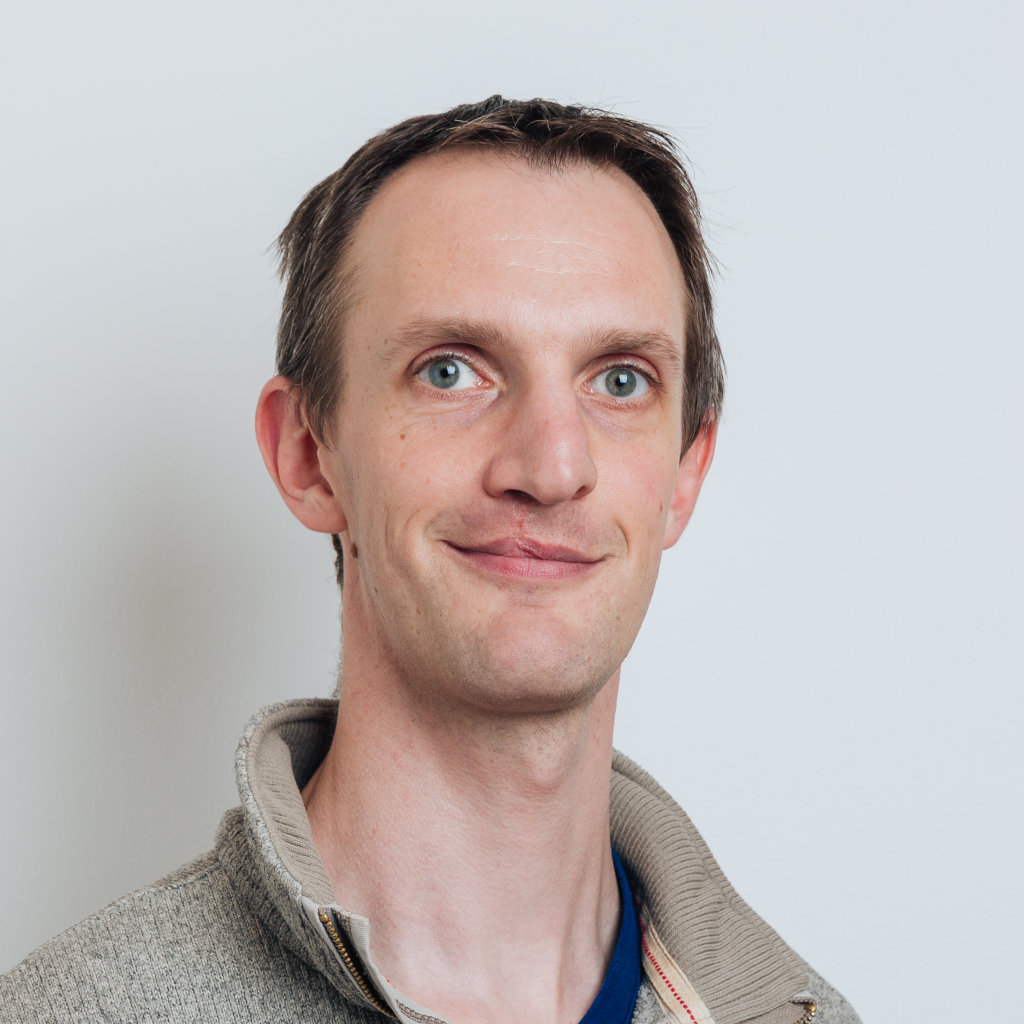
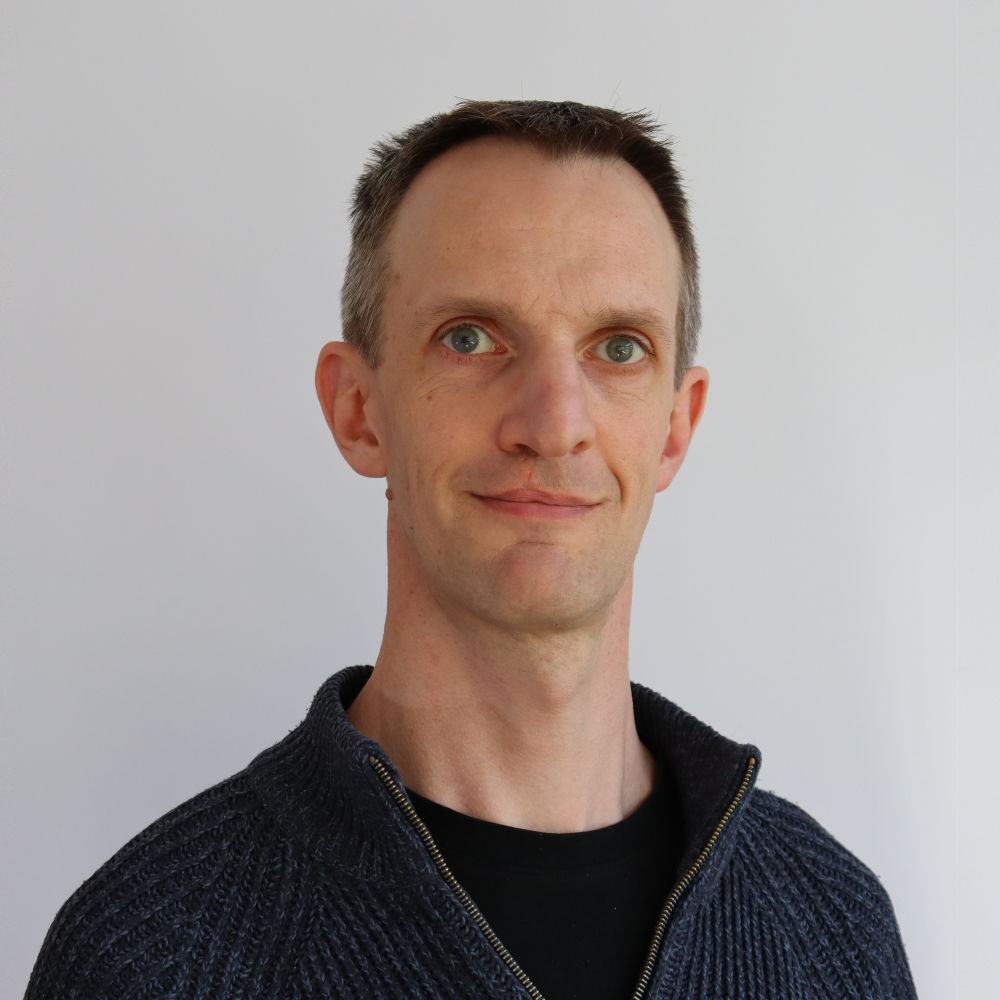
deploy: 5ba586b7f58774de42f5be3b5d95a313b15dc52f

diff --git a/about-me/index.html b/about-me/index.html
@@ -2,7 +2,7 @@
 <meta name=keywords content><meta name=description content="I’m a Professor of Computational and Experimental Mathematics in the School of Engineering Mathematics and Technology at the University of Bristol, UK. I’m active in research in nonlinear dynamics and control mixed with scientific machine learning, and a bit of robotics. I&rsquo;m always interested in new collaborations, so take a look at my research pages and get in touch.
 I’m also husband to Johanna and father of Phoebe, Niamh, Esther, Titus, and Charlotte, and spend a lot of time involved in my local church Emmanuel Bishopston."><meta name=author content><link rel=canonical href=https://cityinthesky.co.uk/about-me/><link crossorigin=anonymous href=/assets/css/stylesheet.45e028aa8ce0961349adf411b013ee39406be2c0bc80d4ea3fc04555f7f4611a.css integrity="sha256-ReAoqozglhNJrfQRsBPuOUBr4sC8gNTqP8BFVff0YRo=" rel="preload stylesheet" as=style><link rel=icon href=https://cityinthesky.co.uk/favicon.ico><link rel=icon type=image/png sizes=16x16 href=https://cityinthesky.co.uk/favicon-16x16.png><link rel=icon type=image/png sizes=32x32 href=https://cityinthesky.co.uk/favicon-32x32.png><link rel=apple-touch-icon href=https://cityinthesky.co.uk/apple-touch-icon.png><link rel=mask-icon href=https://cityinthesky.co.uk/safari-pinned-tab.svg><meta name=theme-color content="#2e2e33"><meta name=msapplication-TileColor content="#2e2e33"><link rel=alternate hreflang=en href=https://cityinthesky.co.uk/about-me/><noscript><style>#theme-toggle,.top-link{display:none}</style><style>@media(prefers-color-scheme:dark){:root{--theme:rgb(29, 30, 32);--entry:rgb(46, 46, 51);--primary:rgb(218, 218, 219);--secondary:rgb(155, 156, 157);--tertiary:rgb(65, 66, 68);--content:rgb(196, 196, 197);--code-block-bg:rgb(46, 46, 51);--code-bg:rgb(55, 56, 62);--border:rgb(51, 51, 51)}.list{background:var(--theme)}.list:not(.dark)::-webkit-scrollbar-track{background:0 0}.list:not(.dark)::-webkit-scrollbar-thumb{border-color:var(--theme)}}</style></noscript><meta property="og:url" content="https://cityinthesky.co.uk/about-me/"><meta property="og:site_name" content="David A W Barton"><meta property="og:title" content="About Me"><meta property="og:description" content="I’m a Professor of Computational and Experimental Mathematics in the School of Engineering Mathematics and Technology at the University of Bristol, UK. I’m active in research in nonlinear dynamics and control mixed with scientific machine learning, and a bit of robotics. I’m always interested in new collaborations, so take a look at my research pages and get in touch.
 I’m also husband to Johanna and father of Phoebe, Niamh, Esther, Titus, and Charlotte, and spend a lot of time involved in my local church Emmanuel Bishopston."><meta property="og:locale" content="en-gb"><meta property="og:type" content="article"><meta property="og:image" content="https://cityinthesky.co.uk/DavidBarton.jpg"><meta name=twitter:card content="summary_large_image"><meta name=twitter:image content="https://cityinthesky.co.uk/DavidBarton.jpg"><meta name=twitter:title content="About Me"><meta name=twitter:description content="I’m a Professor of Computational and Experimental Mathematics in the School of Engineering Mathematics and Technology at the University of Bristol, UK. I’m active in research in nonlinear dynamics and control mixed with scientific machine learning, and a bit of robotics. I&rsquo;m always interested in new collaborations, so take a look at my research pages and get in touch.
-I’m also husband to Johanna and father of Phoebe, Niamh, Esther, Titus, and Charlotte, and spend a lot of time involved in my local church Emmanuel Bishopston."><script type=application/ld+json>{"@context":"https://schema.org","@type":"BreadcrumbList","itemListElement":[{"@type":"ListItem","position":1,"name":"About Me","item":"https://cityinthesky.co.uk/about-me/"}]}</script><script type=application/ld+json>{"@context":"https://schema.org","@type":"BlogPosting","headline":"About Me","name":"About Me","description":"I’m a Professor of Computational and Experimental Mathematics in the School of Engineering Mathematics and Technology at the University of Bristol, UK. I’m active in research in nonlinear dynamics and control mixed with scientific machine learning, and a bit of robotics. I\u0026rsquo;m always interested in new collaborations, so take a look at my research pages and get in touch.\nI’m also husband to Johanna and father of Phoebe, Niamh, Esther, Titus, and Charlotte, and spend a lot of time involved in my local church Emmanuel Bishopston.\n","keywords":[],"articleBody":"I’m a Professor of Computational and Experimental Mathematics in the School of Engineering Mathematics and Technology at the University of Bristol, UK. I’m active in research in nonlinear dynamics and control mixed with scientific machine learning, and a bit of robotics. I’m always interested in new collaborations, so take a look at my research pages and get in touch.\nI’m also husband to Johanna and father of Phoebe, Niamh, Esther, Titus, and Charlotte, and spend a lot of time involved in my local church Emmanuel Bishopston.\nI’ve been heavily involved with open source development in the past — you can find me on GitHub as @dawbarton. Since 2016, I’ve been an active Julia user (and occasional contributor); you can usually find me on Discourse or Slack as @dawbarton.\nProfessional contact details For professional activities (i.e., mathematics/science/university enquiries), please email david.barton@bristol.ac.uk. The postal address is\nDepartment of Engineering Mathematics Ada Lovelace Building University of Bristol University Walk Bristol BS8 1TW United Kingdom My office is room 3.7 in the Ada Lovelace Building.\nPersonal contact details For everything else (including open source software) email barton@cityinthesky.co.uk.\n","wordCount":"183","inLanguage":"en","image":"https://cityinthesky.co.uk/DavidBarton.jpg","datePublished":"0001-01-01T00:00:00Z","dateModified":"0001-01-01T00:00:00Z","mainEntityOfPage":{"@type":"WebPage","@id":"https://cityinthesky.co.uk/about-me/"},"publisher":{"@type":"Organization","name":"David A W Barton","logo":{"@type":"ImageObject","url":"https://cityinthesky.co.uk/favicon.ico"}}}</script></head><body id=top><script>localStorage.getItem("pref-theme")==="dark"?document.body.classList.add("dark"):localStorage.getItem("pref-theme")==="light"?document.body.classList.remove("dark"):window.matchMedia("(prefers-color-scheme: dark)").matches&&document.body.classList.add("dark")</script><header class=header><nav class=nav><div class=logo><a href=https://cityinthesky.co.uk/ accesskey=h title="David A W Barton (Alt + H)">David A W Barton</a><div class=logo-switches><button id=theme-toggle accesskey=t title="(Alt + T)"><svg id="moon" width="24" height="18" viewBox="0 0 24 24" fill="none" stroke="currentcolor" stroke-width="2" stroke-linecap="round" stroke-linejoin="round"><path d="M21 12.79A9 9 0 1111.21 3 7 7 0 0021 12.79z"/></svg><svg id="sun" width="24" height="18" viewBox="0 0 24 24" fill="none" stroke="currentcolor" stroke-width="2" stroke-linecap="round" stroke-linejoin="round"><circle cx="12" cy="12" r="5"/><line x1="12" y1="1" x2="12" y2="3"/><line x1="12" y1="21" x2="12" y2="23"/><line x1="4.22" y1="4.22" x2="5.64" y2="5.64"/><line x1="18.36" y1="18.36" x2="19.78" y2="19.78"/><line x1="1" y1="12" x2="3" y2="12"/><line x1="21" y1="12" x2="23" y2="12"/><line x1="4.22" y1="19.78" x2="5.64" y2="18.36"/><line x1="18.36" y1="5.64" x2="19.78" y2="4.22"/></svg></button></div></div><ul id=menu><li><a href=https://cityinthesky.co.uk/about-me/ title=About><span class=active>About</span></a></li><li><a href=https://cityinthesky.co.uk/posts/ title=Blog><span>Blog</span></a></li><li><a href=https://cityinthesky.co.uk/research/ title=Research><span>Research</span></a></li><li><a href=https://cityinthesky.co.uk/opensource/ title="Open source"><span>Open source</span></a></li><li><a href=https://cityinthesky.co.uk/christianity/ title=Christianity><span>Christianity</span></a></li></ul></nav></header><main class=main><article class=post-single><header class=post-header><div class=breadcrumbs><a href=https://cityinthesky.co.uk/>Home</a></div><h1 class="post-title entry-hint-parent">About Me</h1><div class=post-meta></div></header><figure class=entry-cover><img loading=eager srcset="https://cityinthesky.co.uk/about-me/DavidBarton_hu_11110c48e0b79006.jpg 360w ,https://cityinthesky.co.uk/about-me/DavidBarton_hu_7865db74e85f4d55.jpg 480w ,https://cityinthesky.co.uk/about-me/DavidBarton_hu_ed1c9c608e8b668d.jpg 720w ,https://cityinthesky.co.uk/about-me/DavidBarton_hu_2624f71e4a038375.jpg 1080w ,https://cityinthesky.co.uk/about-me/DavidBarton_hu_f5565e5eb9772327.jpg 1500w ,https://cityinthesky.co.uk/about-me/DavidBarton.jpg 4987w" sizes="(min-width: 768px) 720px, 100vw" src=https://cityinthesky.co.uk/about-me/DavidBarton.jpg alt="A picture of David A W Barton" width=4987 height=2494></figure><div class=post-content><p>I’m a Professor of Computational and Experimental Mathematics in the <a href=https://www.bristol.ac.uk/engineering/schools/eng-maths-tech/>School of Engineering Mathematics and Technology</a> at the <a href=https://www.bristol.ac.uk/>University of Bristol</a>, UK. I’m active in <a href=/research/>research</a> in nonlinear dynamics and control mixed with scientific machine learning, and a bit of robotics. I&rsquo;m always interested in new collaborations, so take a look at my <a href=/research/>research</a> pages and get in touch.</p><p>I’m also husband to Johanna and father of Phoebe, Niamh, Esther, Titus, and Charlotte, and spend a lot of time involved in my local church <a href=https://emmanuelbristol.org.uk/bishopston/>Emmanuel Bishopston</a>.</p><p>I&rsquo;ve been heavily involved with <a href=/open-source/>open source</a> development in the past — you can find me on GitHub as <a href=https://github.com/dawbarton/>@dawbarton</a>. Since 2016, I&rsquo;ve been an active <a href=https://julialang.org/>Julia</a> user (and occasional contributor); you can usually find me on <a href=https://discourse.julialang.org/>Discourse</a> or <a href=https://julialang.slack.com/>Slack</a> as @dawbarton.</p><h2 id=professional-contact-details>Professional contact details<a hidden class=anchor aria-hidden=true href=#professional-contact-details>#</a></h2><p>For professional activities (i.e., mathematics/science/university enquiries), please email <a href=david.barton@bristol.ac.uk>david.barton@bristol.ac.uk</a>. The postal address is</p><div class=highlight><pre tabindex=0 style=color:#f8f8f2;background-color:#272822;-moz-tab-size:4;-o-tab-size:4;tab-size:4><code class=language-plaintext data-lang=plaintext><span style=display:flex><span>    Department of Engineering Mathematics
+I’m also husband to Johanna and father of Phoebe, Niamh, Esther, Titus, and Charlotte, and spend a lot of time involved in my local church Emmanuel Bishopston."><script type=application/ld+json>{"@context":"https://schema.org","@type":"BreadcrumbList","itemListElement":[{"@type":"ListItem","position":1,"name":"About Me","item":"https://cityinthesky.co.uk/about-me/"}]}</script><script type=application/ld+json>{"@context":"https://schema.org","@type":"BlogPosting","headline":"About Me","name":"About Me","description":"I’m a Professor of Computational and Experimental Mathematics in the School of Engineering Mathematics and Technology at the University of Bristol, UK. I’m active in research in nonlinear dynamics and control mixed with scientific machine learning, and a bit of robotics. I\u0026rsquo;m always interested in new collaborations, so take a look at my research pages and get in touch.\nI’m also husband to Johanna and father of Phoebe, Niamh, Esther, Titus, and Charlotte, and spend a lot of time involved in my local church Emmanuel Bishopston.\n","keywords":[],"articleBody":"I’m a Professor of Computational and Experimental Mathematics in the School of Engineering Mathematics and Technology at the University of Bristol, UK. I’m active in research in nonlinear dynamics and control mixed with scientific machine learning, and a bit of robotics. I’m always interested in new collaborations, so take a look at my research pages and get in touch.\nI’m also husband to Johanna and father of Phoebe, Niamh, Esther, Titus, and Charlotte, and spend a lot of time involved in my local church Emmanuel Bishopston.\nI’ve been heavily involved with open source development in the past — you can find me on GitHub as @dawbarton. Since 2016, I’ve been an active Julia user (and occasional contributor); you can usually find me on Discourse or Slack as @dawbarton.\nProfessional contact details For professional activities (i.e., mathematics/science/university enquiries), please email david.barton@bristol.ac.uk. The postal address is\nDepartment of Engineering Mathematics Ada Lovelace Building University of Bristol University Walk Bristol BS8 1TW United Kingdom My office is room 3.7 in the Ada Lovelace Building.\nPersonal contact details For everything else (including open source software) email barton@cityinthesky.co.uk.\n","wordCount":"183","inLanguage":"en","image":"https://cityinthesky.co.uk/DavidBarton.jpg","datePublished":"0001-01-01T00:00:00Z","dateModified":"0001-01-01T00:00:00Z","mainEntityOfPage":{"@type":"WebPage","@id":"https://cityinthesky.co.uk/about-me/"},"publisher":{"@type":"Organization","name":"David A W Barton","logo":{"@type":"ImageObject","url":"https://cityinthesky.co.uk/favicon.ico"}}}</script></head><body id=top><script>localStorage.getItem("pref-theme")==="dark"?document.body.classList.add("dark"):localStorage.getItem("pref-theme")==="light"?document.body.classList.remove("dark"):window.matchMedia("(prefers-color-scheme: dark)").matches&&document.body.classList.add("dark")</script><header class=header><nav class=nav><div class=logo><a href=https://cityinthesky.co.uk/ accesskey=h title="David A W Barton (Alt + H)">David A W Barton</a><div class=logo-switches><button id=theme-toggle accesskey=t title="(Alt + T)"><svg id="moon" width="24" height="18" viewBox="0 0 24 24" fill="none" stroke="currentcolor" stroke-width="2" stroke-linecap="round" stroke-linejoin="round"><path d="M21 12.79A9 9 0 1111.21 3 7 7 0 0021 12.79z"/></svg><svg id="sun" width="24" height="18" viewBox="0 0 24 24" fill="none" stroke="currentcolor" stroke-width="2" stroke-linecap="round" stroke-linejoin="round"><circle cx="12" cy="12" r="5"/><line x1="12" y1="1" x2="12" y2="3"/><line x1="12" y1="21" x2="12" y2="23"/><line x1="4.22" y1="4.22" x2="5.64" y2="5.64"/><line x1="18.36" y1="18.36" x2="19.78" y2="19.78"/><line x1="1" y1="12" x2="3" y2="12"/><line x1="21" y1="12" x2="23" y2="12"/><line x1="4.22" y1="19.78" x2="5.64" y2="18.36"/><line x1="18.36" y1="5.64" x2="19.78" y2="4.22"/></svg></button></div></div><ul id=menu><li><a href=https://cityinthesky.co.uk/about-me/ title=About><span class=active>About</span></a></li><li><a href=https://cityinthesky.co.uk/posts/ title=Blog><span>Blog</span></a></li><li><a href=https://cityinthesky.co.uk/research/ title=Research><span>Research</span></a></li><li><a href=https://cityinthesky.co.uk/opensource/ title="Open source"><span>Open source</span></a></li><li><a href=https://cityinthesky.co.uk/christianity/ title=Christianity><span>Christianity</span></a></li></ul></nav></header><main class=main><article class=post-single><header class=post-header><div class=breadcrumbs><a href=https://cityinthesky.co.uk/>Home</a></div><h1 class="post-title entry-hint-parent">About Me</h1><div class=post-meta></div></header><figure class=entry-cover><img loading=eager srcset="https://cityinthesky.co.uk/about-me/DavidBarton_hu_7262986527eeda3b.jpg 360w ,https://cityinthesky.co.uk/about-me/DavidBarton_hu_e10cd7741a45ad15.jpg 480w ,https://cityinthesky.co.uk/about-me/DavidBarton_hu_9cf550166682d959.jpg 720w ,https://cityinthesky.co.uk/about-me/DavidBarton_hu_77619a92b89993aa.jpg 1080w ,https://cityinthesky.co.uk/about-me/DavidBarton_hu_1e484fb1896c79a.jpg 1500w ,https://cityinthesky.co.uk/about-me/DavidBarton.jpg 4000w" sizes="(min-width: 768px) 720px, 100vw" src=https://cityinthesky.co.uk/about-me/DavidBarton.jpg alt="A picture of David A W Barton" width=4000 height=2000></figure><div class=post-content><p>I’m a Professor of Computational and Experimental Mathematics in the <a href=https://www.bristol.ac.uk/engineering/schools/eng-maths-tech/>School of Engineering Mathematics and Technology</a> at the <a href=https://www.bristol.ac.uk/>University of Bristol</a>, UK. I’m active in <a href=/research/>research</a> in nonlinear dynamics and control mixed with scientific machine learning, and a bit of robotics. I&rsquo;m always interested in new collaborations, so take a look at my <a href=/research/>research</a> pages and get in touch.</p><p>I’m also husband to Johanna and father of Phoebe, Niamh, Esther, Titus, and Charlotte, and spend a lot of time involved in my local church <a href=https://emmanuelbristol.org.uk/bishopston/>Emmanuel Bishopston</a>.</p><p>I&rsquo;ve been heavily involved with <a href=/open-source/>open source</a> development in the past — you can find me on GitHub as <a href=https://github.com/dawbarton/>@dawbarton</a>. Since 2016, I&rsquo;ve been an active <a href=https://julialang.org/>Julia</a> user (and occasional contributor); you can usually find me on <a href=https://discourse.julialang.org/>Discourse</a> or <a href=https://julialang.slack.com/>Slack</a> as @dawbarton.</p><h2 id=professional-contact-details>Professional contact details<a hidden class=anchor aria-hidden=true href=#professional-contact-details>#</a></h2><p>For professional activities (i.e., mathematics/science/university enquiries), please email <a href=david.barton@bristol.ac.uk>david.barton@bristol.ac.uk</a>. The postal address is</p><div class=highlight><pre tabindex=0 style=color:#f8f8f2;background-color:#272822;-moz-tab-size:4;-o-tab-size:4;tab-size:4><code class=language-plaintext data-lang=plaintext><span style=display:flex><span>    Department of Engineering Mathematics
 </span></span><span style=display:flex><span>    Ada Lovelace Building
 </span></span><span style=display:flex><span>    University of Bristol
 </span></span><span style=display:flex><span>    University Walk

diff --git a/index.html b/index.html
@@ -1,4 +1,4 @@
-<!doctype html><html lang=en dir=auto><head><meta name=generator content="Hugo 0.143.1"><meta charset=utf-8><meta http-equiv=X-UA-Compatible content="IE=edge"><meta name=viewport content="width=device-width,initial-scale=1,shrink-to-fit=no"><meta name=robots content="index, follow"><title>David A W Barton</title>
+<!doctype html><html lang=en dir=auto><head><meta name=generator content="Hugo 0.144.2"><meta charset=utf-8><meta http-equiv=X-UA-Compatible content="IE=edge"><meta name=viewport content="width=device-width,initial-scale=1,shrink-to-fit=no"><meta name=robots content="index, follow"><title>David A W Barton</title>
 <meta name=description content><meta name=author content><link rel=canonical href=https://cityinthesky.co.uk/><link crossorigin=anonymous href=/assets/css/stylesheet.45e028aa8ce0961349adf411b013ee39406be2c0bc80d4ea3fc04555f7f4611a.css integrity="sha256-ReAoqozglhNJrfQRsBPuOUBr4sC8gNTqP8BFVff0YRo=" rel="preload stylesheet" as=style><link rel=icon href=https://cityinthesky.co.uk/favicon.ico><link rel=icon type=image/png sizes=16x16 href=https://cityinthesky.co.uk/favicon-16x16.png><link rel=icon type=image/png sizes=32x32 href=https://cityinthesky.co.uk/favicon-32x32.png><link rel=apple-touch-icon href=https://cityinthesky.co.uk/apple-touch-icon.png><link rel=mask-icon href=https://cityinthesky.co.uk/safari-pinned-tab.svg><meta name=theme-color content="#2e2e33"><meta name=msapplication-TileColor content="#2e2e33"><link rel=alternate type=application/rss+xml href=https://cityinthesky.co.uk/index.xml><link rel=alternate hreflang=en href=https://cityinthesky.co.uk/><noscript><style>#theme-toggle,.top-link{display:none}</style><style>@media(prefers-color-scheme:dark){:root{--theme:rgb(29, 30, 32);--entry:rgb(46, 46, 51);--primary:rgb(218, 218, 219);--secondary:rgb(155, 156, 157);--tertiary:rgb(65, 66, 68);--content:rgb(196, 196, 197);--code-block-bg:rgb(46, 46, 51);--code-bg:rgb(55, 56, 62);--border:rgb(51, 51, 51)}.list{background:var(--theme)}.list:not(.dark)::-webkit-scrollbar-track{background:0 0}.list:not(.dark)::-webkit-scrollbar-thumb{border-color:var(--theme)}}</style></noscript><meta property="og:url" content="https://cityinthesky.co.uk/"><meta property="og:site_name" content="David A W Barton"><meta property="og:title" content="David A W Barton"><meta property="og:locale" content="en-gb"><meta property="og:type" content="website"><meta name=twitter:card content="summary"><meta name=twitter:title content="David A W Barton"><meta name=twitter:description content><script type=application/ld+json>{"@context":"https://schema.org","@type":"Organization","name":"David A W Barton","url":"https://cityinthesky.co.uk/","description":"","logo":"https://cityinthesky.co.uk/favicon.ico","sameAs":["mailto:barton@cityinthesky.co.uk","https://github.com/dawbarton/","https://twitter.com/davidawbarton/","https://www.linkedin.com/in/david-barton-61822443/"]}</script></head><body class=list id=top><script>localStorage.getItem("pref-theme")==="dark"?document.body.classList.add("dark"):localStorage.getItem("pref-theme")==="light"?document.body.classList.remove("dark"):window.matchMedia("(prefers-color-scheme: dark)").matches&&document.body.classList.add("dark")</script><header class=header><nav class=nav><div class=logo><a href=https://cityinthesky.co.uk/ accesskey=h title="David A W Barton (Alt + H)">David A W Barton</a><div class=logo-switches><button id=theme-toggle accesskey=t title="(Alt + T)"><svg id="moon" width="24" height="18" viewBox="0 0 24 24" fill="none" stroke="currentcolor" stroke-width="2" stroke-linecap="round" stroke-linejoin="round"><path d="M21 12.79A9 9 0 1111.21 3 7 7 0 0021 12.79z"/></svg><svg id="sun" width="24" height="18" viewBox="0 0 24 24" fill="none" stroke="currentcolor" stroke-width="2" stroke-linecap="round" stroke-linejoin="round"><circle cx="12" cy="12" r="5"/><line x1="12" y1="1" x2="12" y2="3"/><line x1="12" y1="21" x2="12" y2="23"/><line x1="4.22" y1="4.22" x2="5.64" y2="5.64"/><line x1="18.36" y1="18.36" x2="19.78" y2="19.78"/><line x1="1" y1="12" x2="3" y2="12"/><line x1="21" y1="12" x2="23" y2="12"/><line x1="4.22" y1="19.78" x2="5.64" y2="18.36"/><line x1="18.36" y1="5.64" x2="19.78" y2="4.22"/></svg></button></div></div><ul id=menu><li><a href=https://cityinthesky.co.uk/about-me/ title=About><span>About</span></a></li><li><a href=https://cityinthesky.co.uk/posts/ title=Blog><span>Blog</span></a></li><li><a href=https://cityinthesky.co.uk/research/ title=Research><span>Research</span></a></li><li><a href=https://cityinthesky.co.uk/opensource/ title="Open source"><span>Open source</span></a></li><li><a href=https://cityinthesky.co.uk/christianity/ title=Christianity><span>Christianity</span></a></li></ul></nav></header><main class=main><div class=profile><div class=profile_inner><img draggable=false src=https://cityinthesky.co.uk/about-me/DavidBarton-square.jpg alt="A picture of David A W Barton" title="A picture of David A W Barton" height=200 width=200><h1>David A W Barton</h1><span><p><strong><em>Professor of Computional and Experimental Mathematics</em></strong></p><p>University of Bristol</p><p>Researcher, Teacher, Open Source Developer, Christian</p></span><div class=social-icons><a href=mailto:barton@cityinthesky.co.uk target=_blank rel="noopener noreferrer me" title=Email><svg viewBox="0 0 24 21" fill="none" stroke="currentcolor" stroke-width="2" stroke-linecap="round" stroke-linejoin="round"><path d="M4 4h16c1.1.0 2 .9 2 2v12c0 1.1-.9 2-2 2H4c-1.1.0-2-.9-2-2V6c0-1.1.9-2 2-2z"/><polyline points="22,6 12,13 2,6"/></svg>
 </a><a href=https://github.com/dawbarton/ target=_blank rel="noopener noreferrer me" title=Github><svg viewBox="0 0 24 24" fill="none" stroke="currentcolor" stroke-width="2" stroke-linecap="round" stroke-linejoin="round"><path d="M9 19c-5 1.5-5-2.5-7-3m14 6v-3.87a3.37 3.37.0 00-.94-2.61c3.14-.35 6.44-1.54 6.44-7A5.44 5.44.0 0020 4.77 5.07 5.07.0 0019.91 1S18.73.65 16 2.48a13.38 13.38.0 00-7 0C6.27.65 5.09 1 5.09 1A5.07 5.07.0 005 4.77 5.44 5.44.0 003.5 8.55c0 5.42 3.3 6.61 6.44 7A3.37 3.37.0 009 18.13V22"/></svg>
 </a><a href=https://twitter.com/davidawbarton/ target=_blank rel="noopener noreferrer me" title=Twitter><svg viewBox="0 0 24 24" fill="none" stroke="currentcolor" stroke-width="2" stroke-linecap="round" stroke-linejoin="round"><path d="M23 3a10.9 10.9.0 01-3.14 1.53 4.48 4.48.0 00-7.86 3v1A10.66 10.66.0 013 4s-4 9 5 13a11.64 11.64.0 01-7 2c9 5 20 0 20-11.5a4.5 4.5.0 00-.08-.83A7.72 7.72.0 0023 3z"/></svg>
